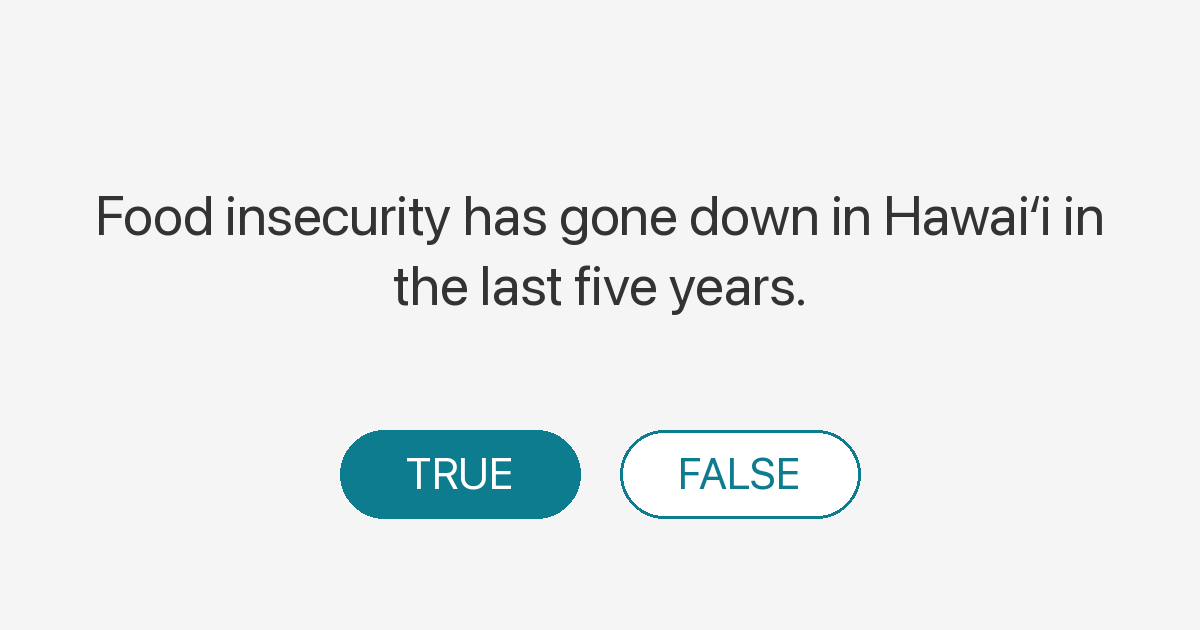
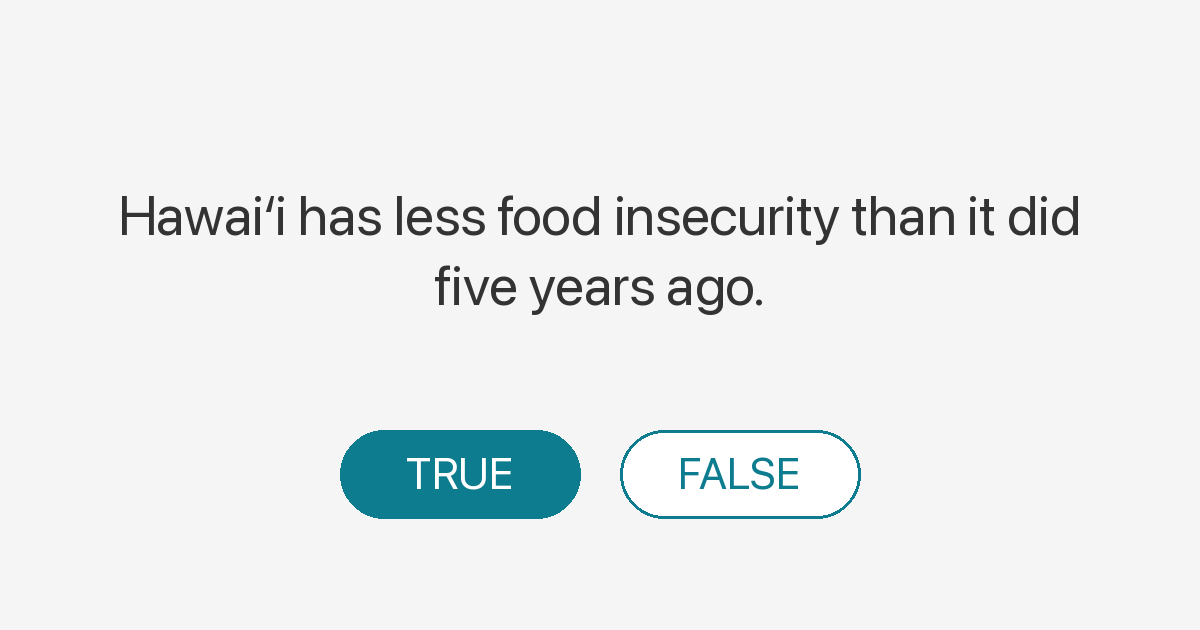
qotd: reword today's q083 — "less food insecurity than 5 years ago"
Same semantic claim (still false; HI went 8.0% → 10.8% from
2016-2018 to 2022-2024), reworded for clarity.

Changed region(s): [[0.0617, 0.3016, 0.925, 0.3921], [0.3083, 0.4222, 0.6783, 0.5127]]

diff --git a/q/q083/index.html b/q/q083/index.html
@@ -13,7 +13,7 @@
   <meta name="twitter:card" content="summary_large_image">
   <meta name="twitter:title" content="You know Hawaiʻi?">
   <meta name="twitter:image" content="https://hawaiidashboard.org/assets/og/q/food-insecurity-has-gone-down-in-hawaii-in-the-last-five-years.png">
-  <meta name="description" content="Food insecurity has gone down in Hawaiʻi in the last five years.">
+  <meta name="description" content="Hawaiʻi has less food insecurity than it did five years ago.">
   <link rel="canonical" href="https://hawaiidashboard.org/q/q083/">
   <script>window.location.replace("/?from_q=q083");</script>
   <meta http-equiv="refresh" content="0;url=https://hawaiidashboard.org/?from_q=q083">
@@ -22,7 +22,7 @@
   <p>Redirecting to <a href="https://hawaiidashboard.org/?from_q=q083">You know Hawaiʻi?</a>&hellip;</p>
   <article style="max-width:640px;margin:2rem auto;padding:0 1rem;font-family:-apple-system,BlinkMacSystemFont,'Segoe UI',sans-serif;color:#333;line-height:1.55;">
     <p style="color:#888;font-size:0.875rem;text-transform:uppercase;letter-spacing:0.05em;margin:0;">You know Hawaiʻi?</p>
-    <p style="margin:0.25rem 0 1rem;font-size:1.25rem;font-weight:600;">Food insecurity has gone down in Hawaiʻi in the last five years.</p>
+    <p style="margin:0.25rem 0 1rem;font-size:1.25rem;font-weight:600;">Hawaiʻi has less food insecurity than it did five years ago.</p>
     <p><strong>False.</strong> Hawaiʻi's food insecurity rate went from 8.0% to 10.8% between the 2016-2018 and 2022-2024 windows (+36.1%).</p>
     <p style="margin-top:1.5rem;"><a href="/t/food_insecurity_rate/">See the data &rarr;</a></p>
   </article>

diff --git a/js/questions.js b/js/questions.js
@@ -383,7 +383,7 @@ const QOTD_QUESTIONS = [
   {
       "id": "q083",
       "slug": "food-insecurity-has-gone-down-in-hawaii-in-the-last-five-years",
-      "claim": "Food insecurity has gone down in Hawaiʻi in the last five years.",
+      "claim": "Hawaiʻi has less food insecurity than it did five years ago.",
       "correct": false,
       "answer": "Hawaiʻi's food insecurity rate went from 8.0% to 10.8% between the 2016-2018 and 2022-2024 windows (+36.1%).",
       "chartUrl": "/t/food_insecurity_rate/",
